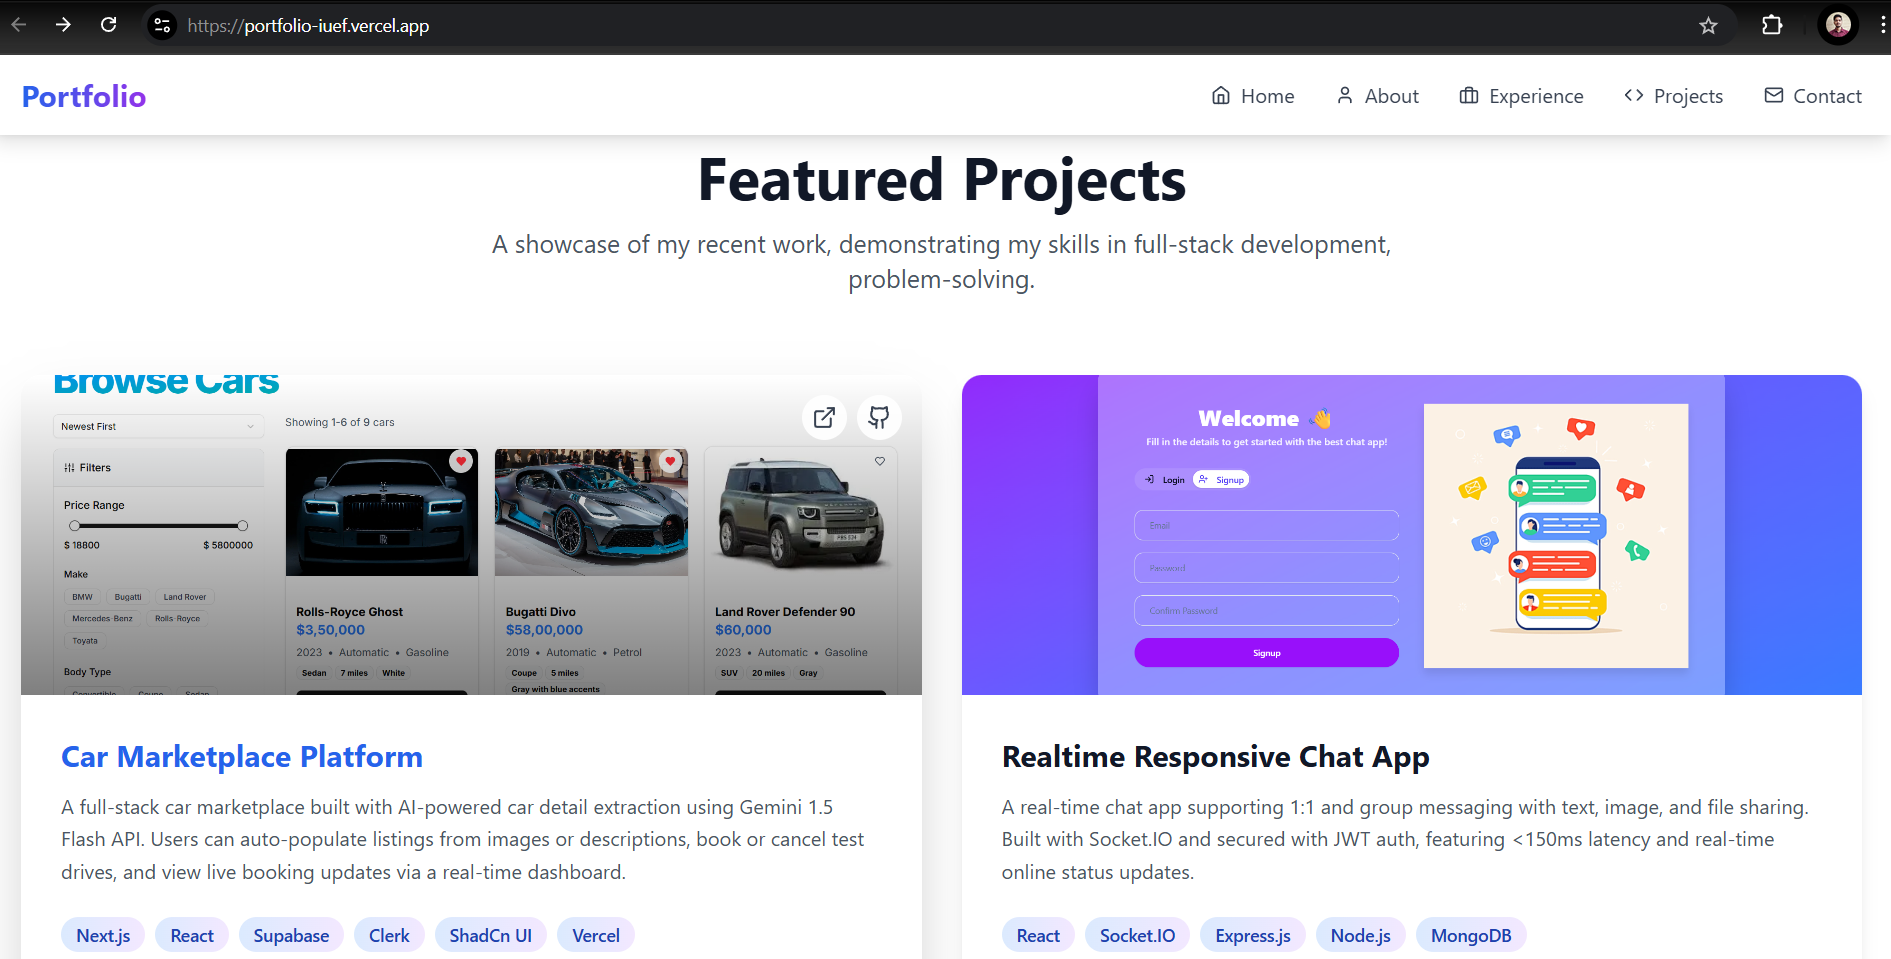
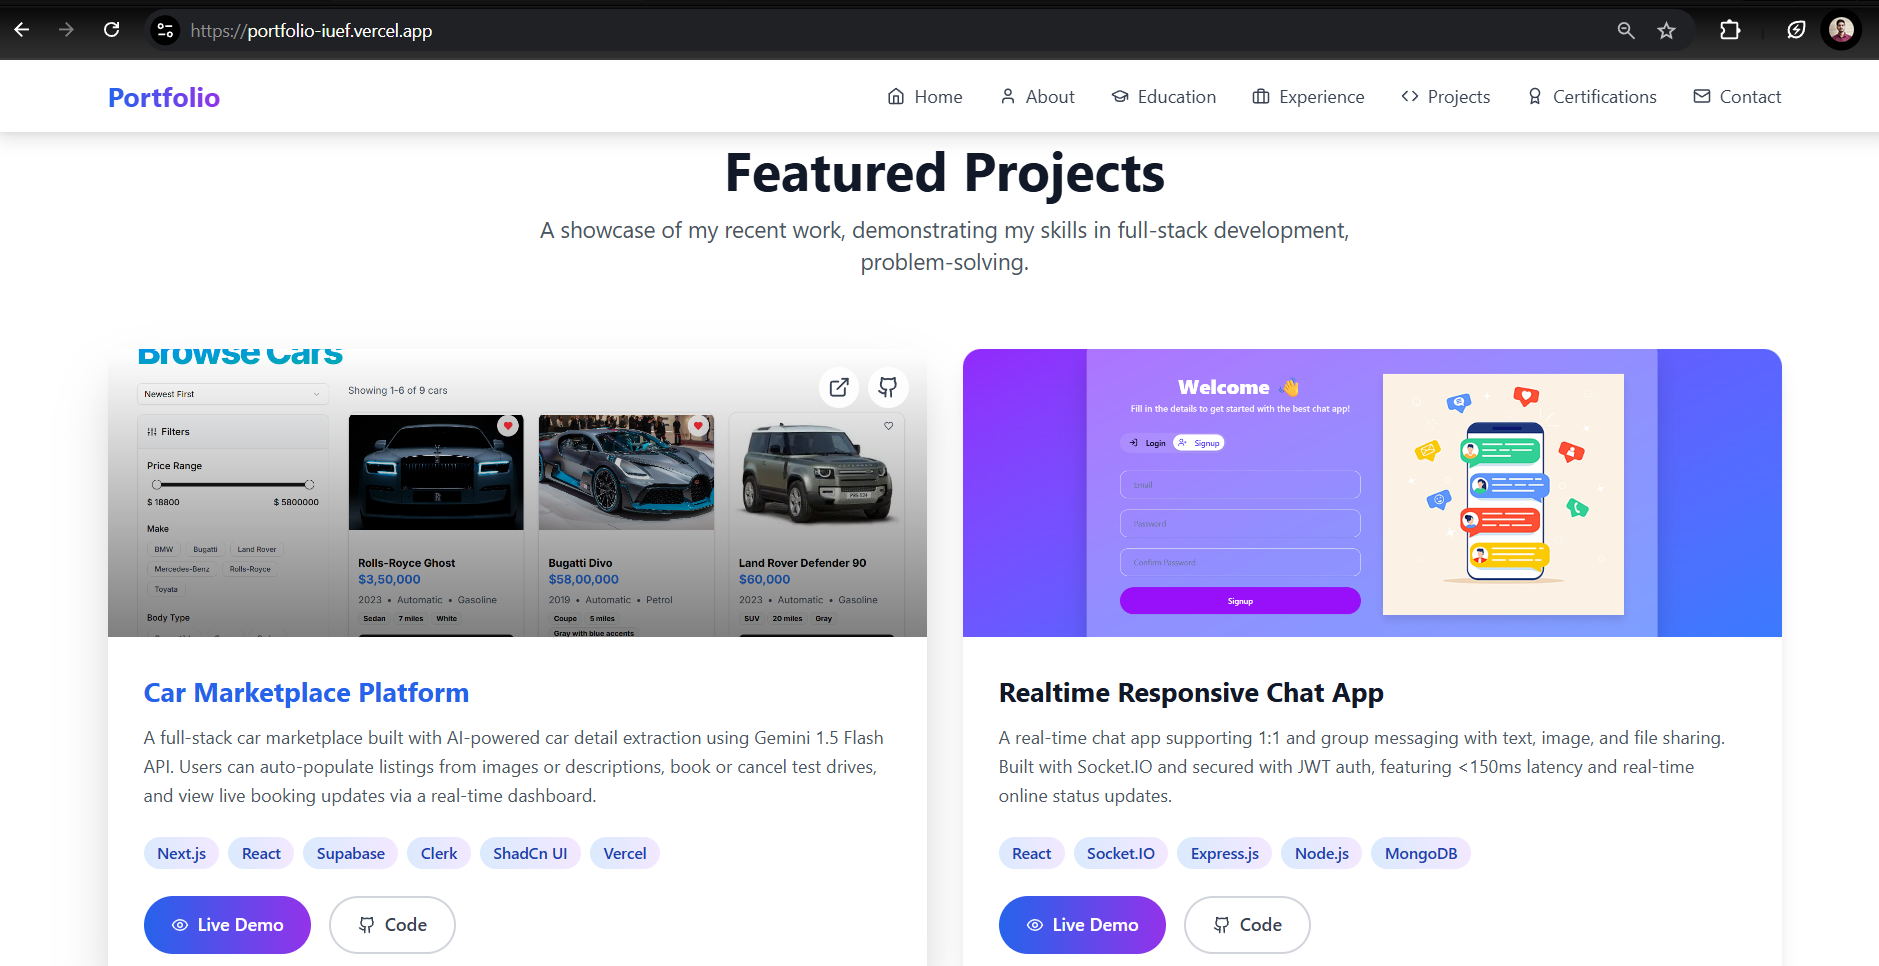
first commit

diff --git a/src/components/Experience.tsx b/src/components/Experience.tsx
@@ -3,21 +3,21 @@ import { Calendar, MapPin, ExternalLink } from 'lucide-react';
 const experiences = [
   {
     title: 'Summer Intern - Full Stack Developer',
-    company: 'Bihar State Power (Holding) Company Limited',
-    location: 'On Site',
+    company: 'South Bihar Power Distribution Company Limited (SBPDCL)',
+    location: 'Patna, Bihar (On Site)',
     period: 'May 2025 – Jun 2025',
     description:
-      'Developed a comprehensive car marketplace platform as part of the official in-plant training, under the supervision of the IT Manager SCADA at SBPDCL. The project focused on end-to-end web application development using modern full-stack tools.',
+      'Completed in-plant training at SBPDCL’s IT Cell, contributing to a full-stack car marketplace project under IT Manager (SCADA) supervision.',
     achievements: [
-      'Built a full-stack Car Marketplace Platform with 15+ features using Next.js, Supabase, Clerk, and ShadCn UI',
-      'Integrated Gemini 1.5 Flash API for AI-powered car detail extraction from images or descriptions',
-      'Implemented test drive booking and cancellation workflows with real-time status updates',
-      'Created dynamic dashboards for dealerships to manage working hours and track bookings',
-      'Designed responsive UI with reusable components and deployed on Vercel for seamless cross-device access',
+      'Developed a full-stack Car Marketplace Platform with Next.js, Supabase, Clerk, and ShadCn UI',
+      'Integrated Gemini API for AI-based car detail extraction from images and descriptions',
+      'Implemented test drive booking workflows and dynamic dashboards for dealership operations',
+      'Deployed a responsive, cross-device application on Vercel with real-time updates and secure access',
     ],
     technologies: ['Next.js', 'React', 'Supabase', 'Clerk', 'ShadCn UI', 'Vercel', 'Gemini API'],
-    certificateUrl: 'https://drive.google.com/file/d/1V7OS2EpW66JXlT4eCDb4bdhCU6hx1vMu/view?usp=sharing',
+    certificateUrl: 'https://drive.google.com/file/d/1p3-gVB966-sY35KmfmJ5eWm7vdHSprv0/view?usp=drive_link',
   },
+
   {
     title: 'Winter Research Intern',
     company: 'Indian Institute of Technology, Bhubaneswar',
@@ -62,7 +62,7 @@ const Experience = () => {
                             {exp.title}
                           </h3>
                           <div className="flex items-center text-blue-600 font-semibold mb-3">
-                            <ExternalLink className="w-4 h-4 mr-2" />
+                            
                             {exp.company}
                           </div>
                           <div className="flex flex-col sm:flex-row sm:items-center gap-2 text-gray-500 text-sm">

diff --git a/src/components/Projects.tsx b/src/components/Projects.tsx
@@ -5,7 +5,7 @@ const Projects = () => {
     {
       title: 'Car Marketplace Platform',
       description: 'A full-stack car marketplace built with AI-powered car detail extraction using Gemini 1.5 Flash API. Users can auto-populate listings from images or descriptions, book or cancel test drives, and view live booking updates via a real-time dashboard.',
-      image: 'car5.png',
+      image: 'CarMaketPlace.png',
       technologies: ['Next.js', 'React', 'Supabase', 'Clerk', 'ShadCn UI', 'Vercel'],
       liveUrl: 'https://car-market-place-eight.vercel.app/',
       githubUrl: 'https://github.com/VishalRaj20/CarApp.git',

diff --git a/README.md b/README.md
@@ -11,8 +11,8 @@ Welcome to my personal portfolio website – a modern, responsive, and full-stac
 ---
 
 <p align="center">
-  <img src="https://github.com/VishalRaj20/Portfolio/blob/3e8b421a989e3a5f0e0e03e37536edd02e6bfe8e/public/Portfolio1%20(1).png" alt="Car Marketplace Banner" width="100%" />
-  <img src="https://github.com/VishalRaj20/Portfolio/blob/3e8b421a989e3a5f0e0e03e37536edd02e6bfe8e/public/Portfolio1%20(2).png" alt="Car Marketplace Banner" width="100%" />
+  <img src="https://github.com/VishalRaj20/Portfolio/blob/3e8b421a989e3a5f0e0e03e37536edd02e6bfe8e/public/Portfolio1%20.png" alt="Portfolio" width="100%" />
+  <img src="https://github.com/VishalRaj20/Portfolio/blob/3e8b421a989e3a5f0e0e03e37536edd02e6bfe8e/public/Portfolio2%20.png" alt="Portfolio" width="100%" />
 </p>
 
 ---
